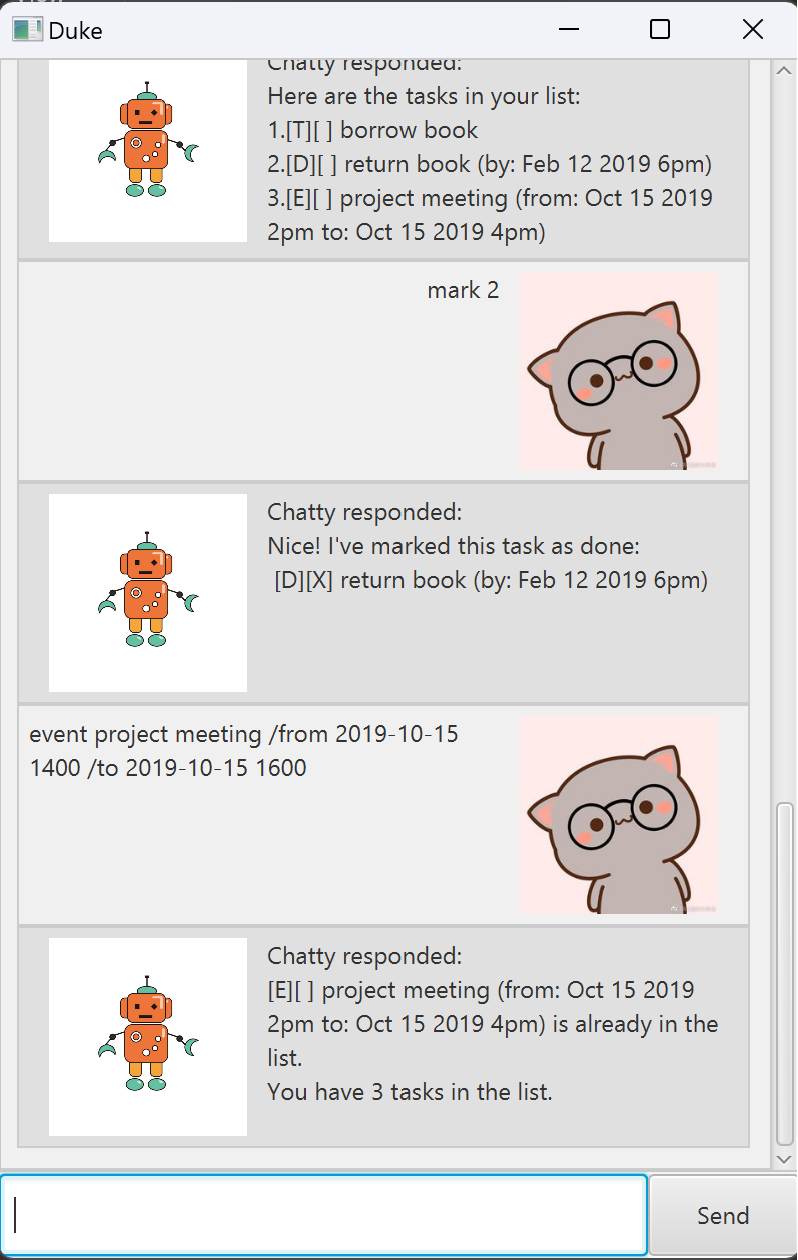
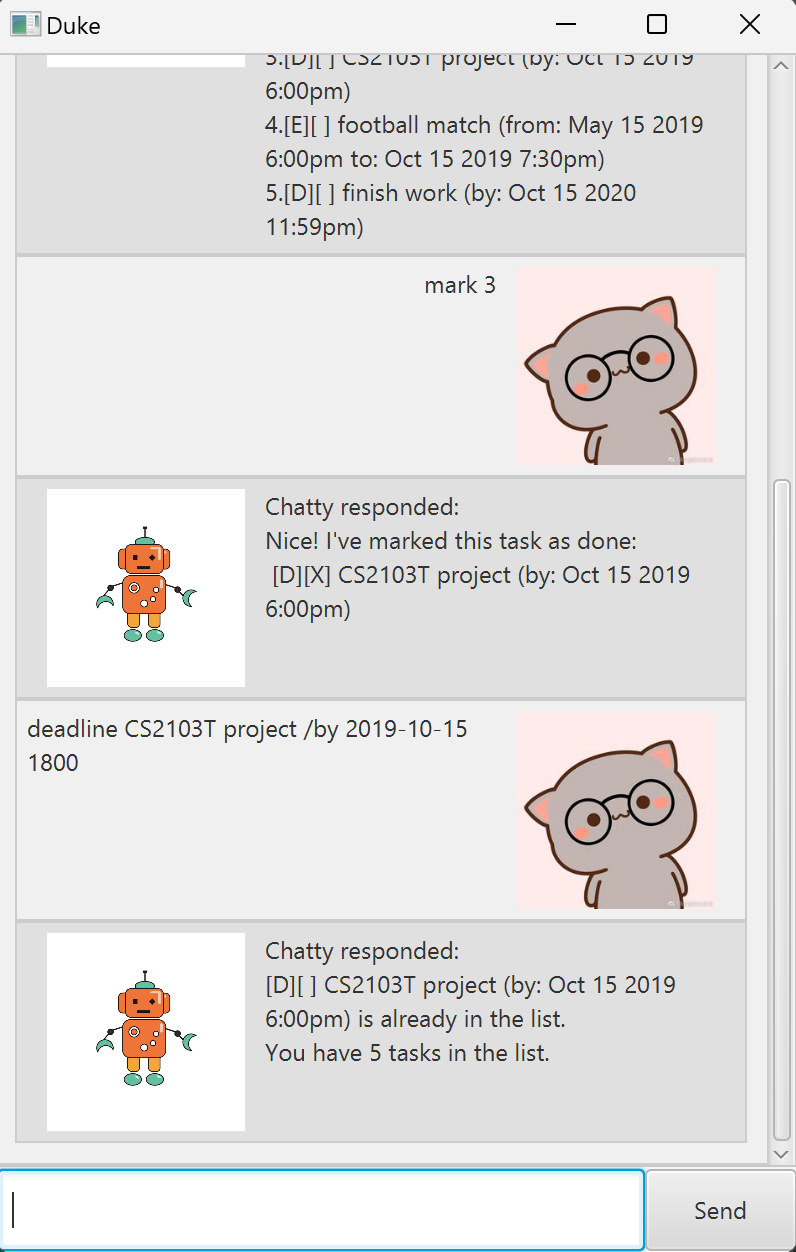
Change code to standardise input

diff --git a/src/main/java/duke/TaskList.java b/src/main/java/duke/TaskList.java
@@ -1,8 +1,9 @@
 package duke;
 
-import java.time.LocalDate;
-import java.time.LocalTime;
+
+import java.time.LocalDateTime;
 import java.time.format.DateTimeFormatter;
+import java.time.format.DateTimeParseException;
 import java.util.ArrayList;
 import java.util.stream.Collectors;
 
@@ -91,7 +92,7 @@ public class TaskList {
                 if (a.length != 2 || a[1].isEmpty()) {
                     throw new EmptyDateException(inputArray[0]);
                 }
-                newTask = new Deadline(a[0], getDate(a[1], false));
+                newTask = new Deadline(a[0], getDate(a[1]));
             } else {
                 assert inputArray[0].equals("event") : "The userInput should start with event";
                 // check if contains both the order is correct
@@ -103,11 +104,11 @@ public class TaskList {
                 if (a.length != 2 || a[1].isEmpty()) {
                     throw new EmptyDateException(inputArray[0]);
                 }
-                String[] fromto = a[1].split("/to ");
+                String[] fromto = a[1].split(" /to ");
                 if (fromto.length != 2 || fromto[1].isEmpty()) {
                     throw new NoEndDateException();
                 }
-                newTask = new Event(a[0], getDate(fromto[0], true), getDate(fromto[1], true));
+                newTask = new Event(a[0], getDate(fromto[0]), getDate(fromto[1]));
             }
         }
 
@@ -117,52 +118,22 @@ public class TaskList {
     /**
      * Change the input date and time to the correct format.
      *
-     * @param inputDate The user's input date.
+     * @param inputDate The user's input date and time.
      * @return The correct date and time format.
+     * @throws DukeException If there's an issue parsing the input date and time.
      */
-    public String getDate(String inputDate, boolean isBothNeeded) throws DukeException {
-        String[] dateTime = inputDate.split(" ");
-        if (isBothNeeded && dateTime.length != 2) {
-            throw new DukeException("O0PS!! Please ensure your FROM and TO are in the correct formats");
+    public String getDate(String inputDate) throws DukeException {
+        try {
+            DateTimeFormatter inputFormatter = DateTimeFormatter.ofPattern("yyyy-MM-dd HHmm");
+            DateTimeFormatter outputFormatter = DateTimeFormatter.ofPattern("MMM dd yyyy h:mma");
+            LocalDateTime dateTime = LocalDateTime.parse(inputDate, inputFormatter);
+            return dateTime.format(outputFormatter);
+        } catch (DateTimeParseException e) {
+            throw new DukeException("O0PS!! Please ensure your date and "
+                    + "time are in the right format (yyyy-MM-dd HHmm).");
         }
-
-        if (!dateTime[0].isEmpty()) {
-            DateTimeFormatter inputFormatter = DateTimeFormatter.ofPattern(
-                    "[M/d/yyyy][MM/dd/yyyy][yyyy-MM-dd]");
-            DateTimeFormatter outputFormatter = DateTimeFormatter.ofPattern("MMM dd yyyy");
-            if (dateTime[0].contains("-") || dateTime[0].contains("/")) {
-                LocalDate date = LocalDate.parse(dateTime[0], inputFormatter);
-                dateTime[0] = date.format(outputFormatter);
-                inputDate = dateTime[0];
-            }
-        }
-
-        // Time
-        if (dateTime.length == 2 && !dateTime[1].isEmpty()) {
-            inputDate = dateTime[0] + " " + getTime(dateTime[1]);
-        }
-
-        return inputDate;
     }
 
-    /**
-     * Change the input time to the correct format.
-     *
-     * @param time The user's input time.
-     * @return The correct time format.
-     */
-    public String getTime(String time) {
-
-        // check if is integer
-        if (time.matches("^-?\\d+$")) {
-            DateTimeFormatter inputFormatter = DateTimeFormatter.ofPattern("HHmm");
-            DateTimeFormatter outputFormatter = DateTimeFormatter.ofPattern("ha");
-            LocalTime outputTime = LocalTime.parse(time, inputFormatter);
-            time = outputTime.format(outputFormatter);
-        }
-
-        return time;
-    }
 
     /**
      * Deletes the desired task from the task list.

diff --git a/src/test/java/duke/TaskListTest.java b/src/test/java/duke/TaskListTest.java
@@ -32,7 +32,7 @@ public class TaskListTest {
         assertEquals(output1, taskList.addTask(test1));
 
         String test2 = "deadline Finish project /by 2023-12-31 1800";
-        String output2 = "Got it. I've added this task:\n " + "[D][ ] Finish project (by: Dec 31 2023 6pm)"
+        String output2 = "Got it. I've added this task:\n " + "[D][ ] Finish project (by: Dec 31 2023 6:00pm)"
                 + "\nNow you have 2 tasks in the list.";
         assertEquals(output2, taskList.addTask(test2));
 

diff --git a/docs/README.md b/docs/README.md
@@ -8,33 +8,19 @@ Chatty is a task management application, that allows you to keep track of you ta
 3. Open a command terminal, `cd` into the folder you put the jar file in, and use the `java -jar duke.jar` command to run the application. The Chatty GUI should appear in a few seconds.
 4. Similarly, you can download the code and run the application on Intellij. Follow the instructions [here](https://alyssapng.github.io/ip/#setting-up-in-intellij)
 5. Type the command in the command box and press Enter to execute it.  e.g. typing `list` and pressing Enter will display all the tasks in the task list.
-6. Here are example commands:
-    1. `todo read book`: Adds a ToDo task with the description: "read book".
-    2. `deadline return book /by Sunday` : Adds a Deadline task with the description: "project" and the due date: "Sunday"
-    3. `event project meeting /from Mon 2pm /to 4pm`: Adds an Event task with the description: "project meeting", start date/time: "Mon 2pm" and end date/time: "4pm"
-    4. `list`: Displays all the tasks in the task list and their respective task index.
-    5. `delete 1`: Removes the first task in the task list.
-    6. `unmark 2`: Marks the second task in the task list as undone.
-    7. `mark 3`: Marks the third task in the task list as done.
-    8. `find project`: Displays the tasks which description contains the String "project".
-    9. `bye`: Exits the application.
+6. Here are some example commands:
+   1. `todo read book`: Adds a ToDo task with the description: "read book".
+   2. `deadline CS2103T project /by 2019-10-15 1800` : Adds a Deadline task with the description: "CS2103T IP" and the due date: "Oct 15 2019 6:00pm"
+   3. `list`: Displays all the tasks in the task list and their respective task index.
+   4. `delete 1`: Removes the first task in the task list.
+   5. `mark 3`: Marks the third task in the task list as done.
+   6. `find project`: Displays the tasks which description contains the String "project".
+   7. `bye`: Exits the application.
 
 ## Things to Note: 
 1. Chatty automatically saves your task list into a `./data/duke.txt` file which is updated everytime task list is changed.
    1. `./data/duke.txt` file is located in the same directory as your `duke.jar` file
 2. Chatty will tell you if you have already added a task into you task list, preventing duplicates!
-
-## Setting up in Intellij
-Prerequisites: JDK 11, update Intellij to the most recent version.
-
-1. Open Intellij (if you are not in the welcome screen, click `File` > `Close Project` to close the existing project first)
-2. Open the project into Intellij as follows:
-    1. Click `Open`.
-    2. Select the project directory, and click `OK`.
-    3. If there are any further prompts, accept the defaults.
-3. Configure the project to use **JDK 11** (not other versions) as explained in [here](https://www.jetbrains.com/help/idea/sdk.html#set-up-jdk).<br>
-   In the same dialog, set the **Project language level** field to the `SDK default` option.
-4. After setting up the environment, locate the `src/main/java/duke/Launcher.java` file, right click it and chose `Run Launcher.main()`.If the setup was successful, the GUI should appear in a few seconds.
 
 ## Features
 ### Adding ToDo Task: `todo`
@@ -52,30 +38,25 @@ Add a Deadline task to the task list with a description and due date.
 
 Format: `deadline DESCRIPTION /by BY`
 * `DESCRIPTION` is the description of the deadline task.
-* `BY` is the due date of the deadline task consisting of:
-    * **Date**: String, M/d/yyyy, MM/dd/yyyy or yyyy-MM-dd
-    * Time(optional to include): String, HHmm
+* `BY` is the due date of the deadline task.
+* The format for input `BY` should be  `yyyy-MM-dd HHmm`
 
 Example(s):
-- `deadline return book /by 2/12/2019 1800`
-- `deadline finish lab /by 4/12/2019 6pm`
-- `deadline finish homework /by Sunday`
+- `deadline finish work /by 2020-10-15 2359`
+- `deadline CS2103T project /by 2019-10-15 1800`
 
 ### Adding Event Task: `event`
 Add a Event task to the task list with a description, start date and end date.
 
 Format: `event DESCRIPTION /from FROM /to TO`
 * `DESCRIPTION` is the description of the event task.
-* `FROM` is the start date of the event task consisting of:
-    * **Date**: String, M/d/yyyy, MM/dd/yyyy or yyyy-MM-dd
-    * **Time**: String, HHmm
-* `TO` is the end date of the event task consisting of:
-    * **Date**: String, M/d/yyyy, MM/dd/yyyy or yyyy-MM-dd
-    * **Time**: String, HHmm
+* `FROM` is the start date of the event task.
+* `TO` is the end date of the event task.
+* The format for inputs `FROM` and `TO` should be  `yyyy-MM-dd HHmm`
 
 Example(s):
 - `event project meeting /from 2019-10-15 1400 /to 2019-10-15 1600`
-- `event football match /from 2019-5-15 1800 /to 2019-10-15 4pm`
+- `event football match /from 2019-05-15 1800 /to 2019-10-15 1930`
 
 ### Deleting a Task: `delete`
 Remove a task from the task list using the task's index.
@@ -114,8 +95,8 @@ Example(s):
 - `find project` will return
 ```
 Here are the matching tasks in your list:
-1.[E][ ] project meeting (from: Aug 6th 2pm to: 4pm)
-2.[E][ ] project call (from: Oct 15 2019 2pm to: 4pm)
+1.[E][ ] project meeting (from: Oct 15 2019 2:00pm to: Oct 15 2019 4:00pm)
+2.[D][ ] CS2103T project (by: Oct 15 2019 6:00pm)
 ```
 
 ### Listing all the tasks: `list`
@@ -127,9 +108,10 @@ Example(s):
 - `list` will return
 ```
 Here are the tasks in your list:
-1.[T][X] read book
-2.[E][ ] project meeting (from: Aug 6th 2pm to: 4pm)
-3.[T][ ] borrow book
+1.[T][X] return book
+2.[E][ ] project meeting (from: Oct 15 2019 2:00pm to: Oct 15 2019 4:00pm)
+3.[D][ ] CS2103T project (by: Oct 15 2019 6:00pm)
+4.[E][ ] football match (from: May 15 2019 6:00pm to: Oct 15 2019 7:30pm)
 ```
 
 ### Exiting the application: `bye`
